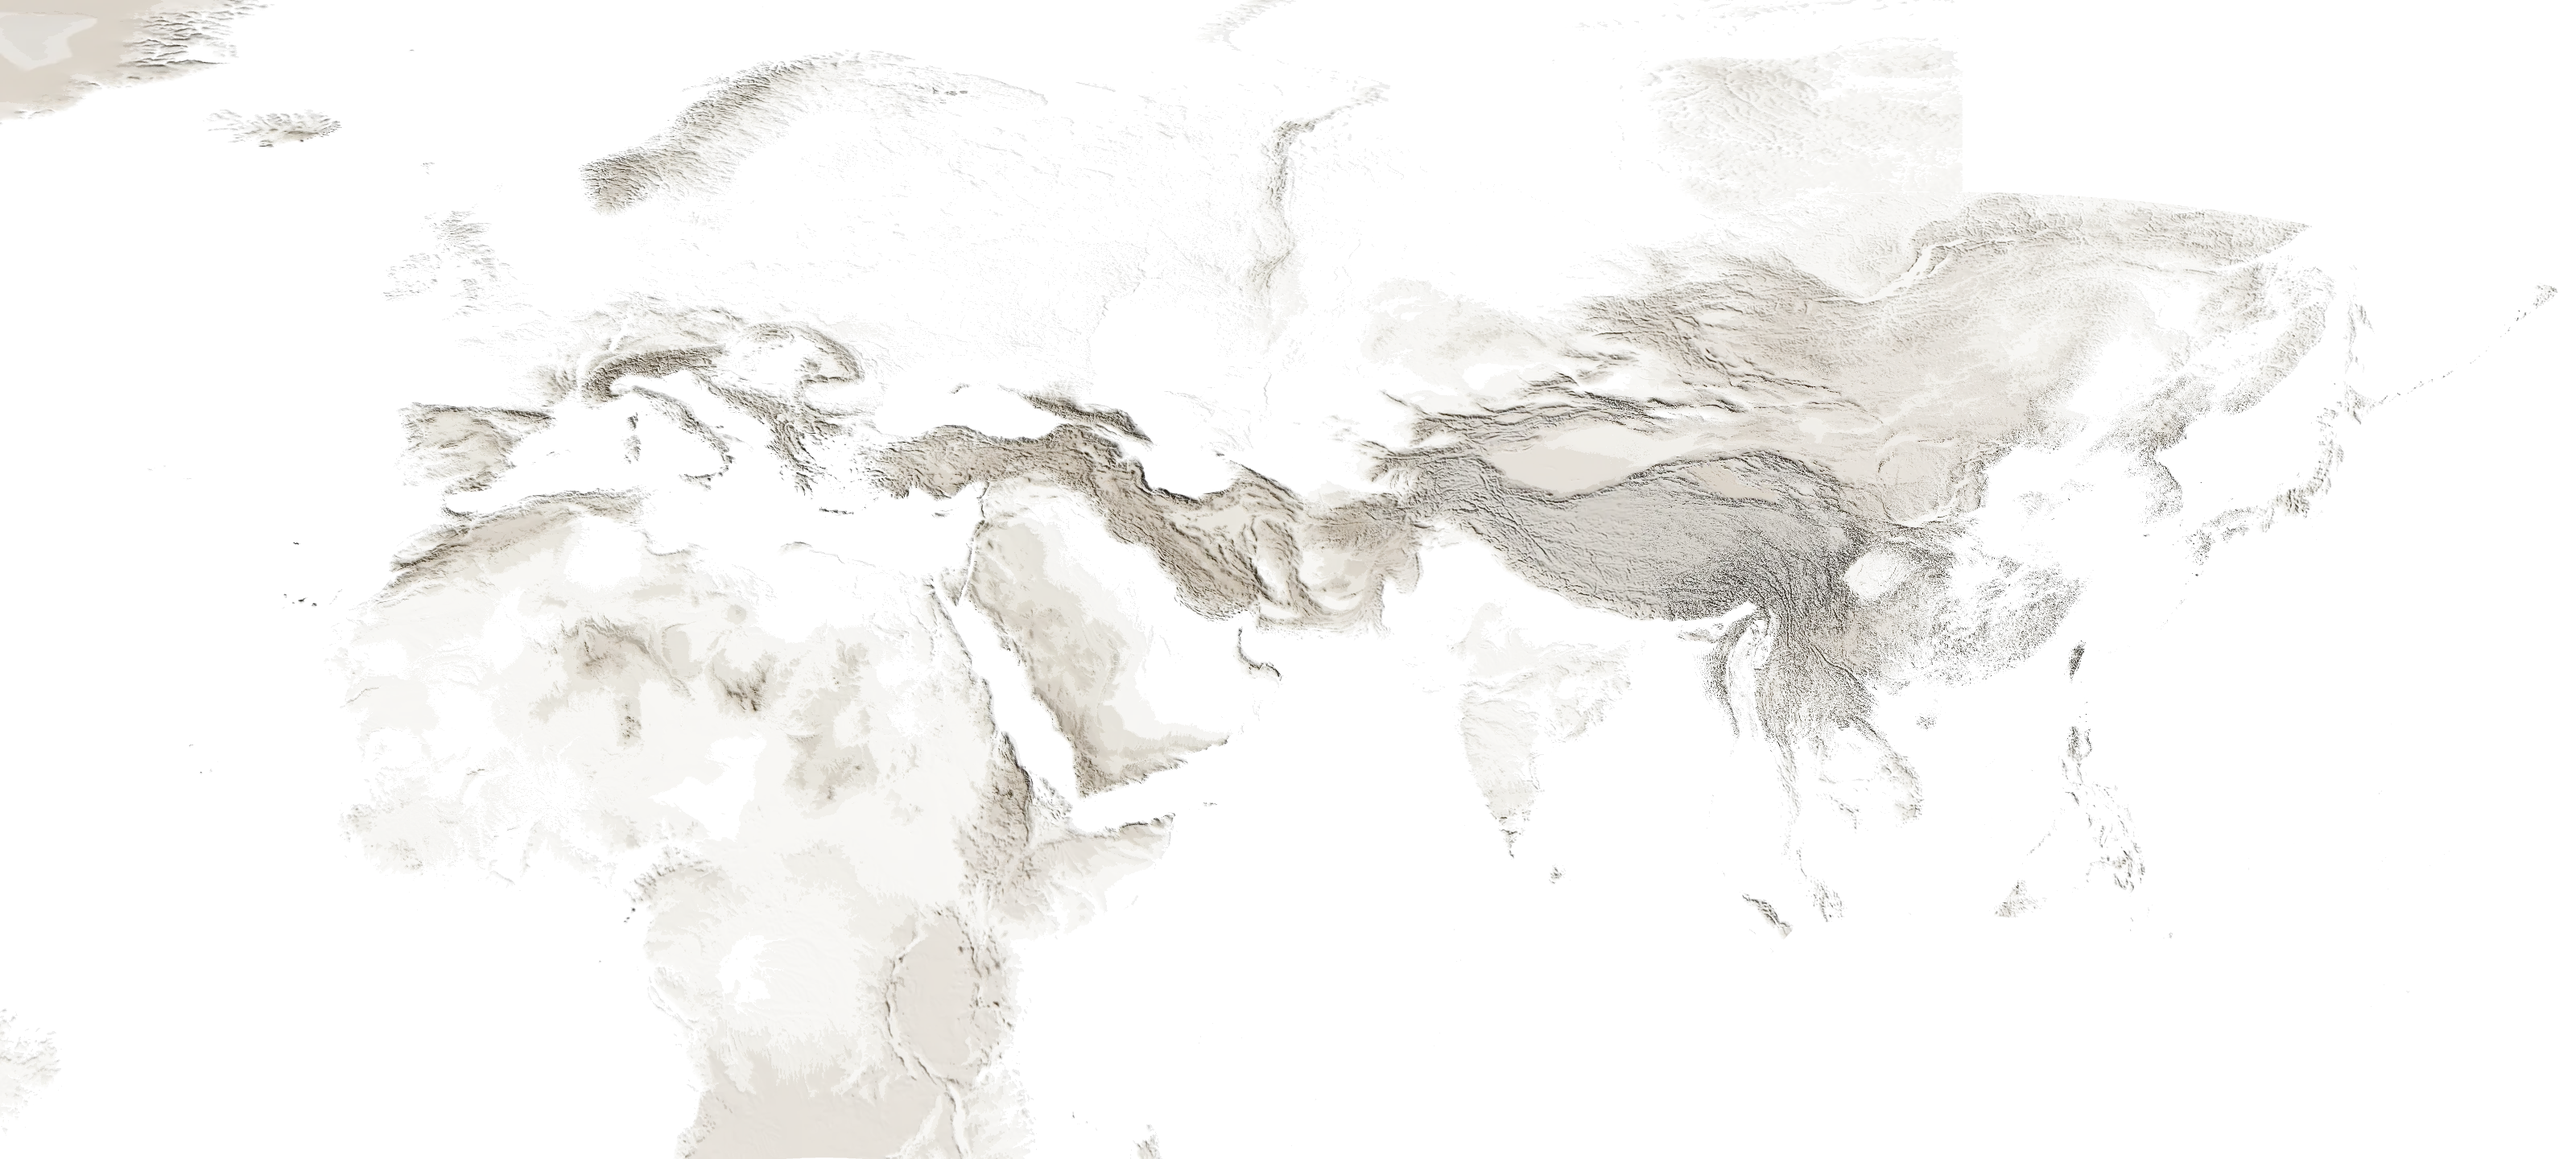
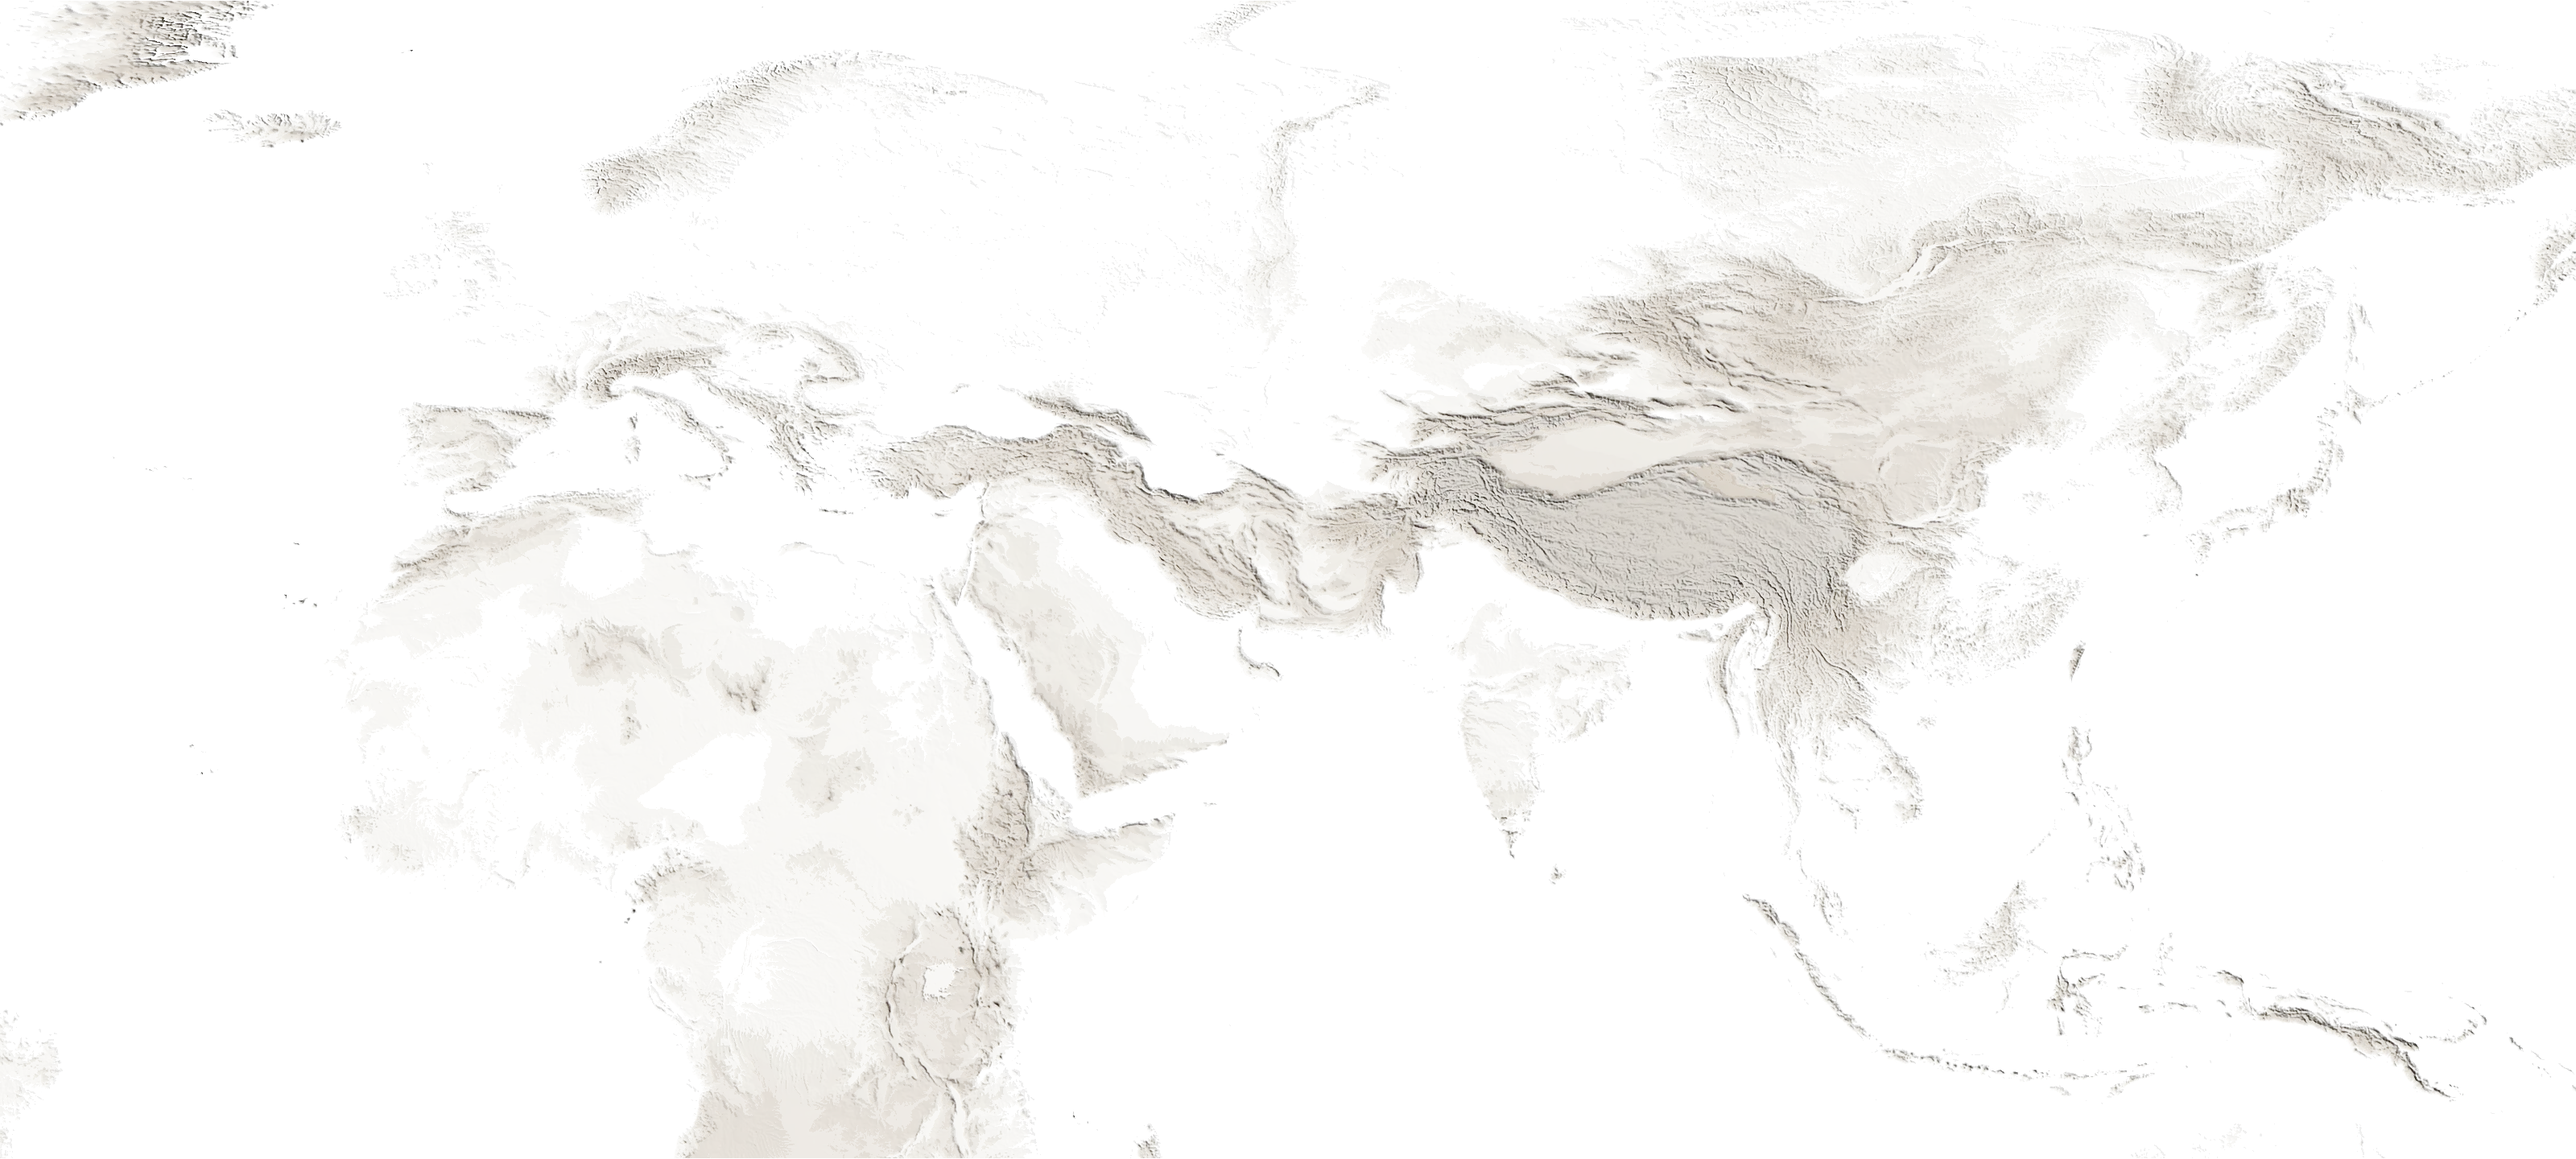
地球页：补全全球地形
- tools/globe-terrain.mjs 改为由 Terrarium 高程瓦片直接按经纬度渲染：全球一张（4096×2048）加欧亚高清区一张，画法与 tools/terrain.js 相同
- 页面着色器高清区内取高清贴图，边缘 4° 内与全球贴图渐变；美洲、非洲南部等此前空白处都有地形

Claude-Session: https://claude.ai/code/session_016rEYeEuADXCiERpc4959g2

diff --git a/engine/globe.html b/engine/globe.html
@@ -213,21 +213,27 @@ const CONF = {{CONF}};
     if (h.get('k') && +h.get('k') > 0) zoomK = Math.min(14, Math.max(0.8, +h.get('k')));
   } catch (e) {}
 
-  // —— 地形：经纬度等距贴图，在片元着色器里按正射投影反算经纬度取样
-  function terrainGL(canvas, src) {
+  // —— 地形：两张经纬度等距贴图（全球一张，欧亚高清区一张，tools/globe-terrain.mjs 生成），在片元着色器里按正射投影反算经纬度取样。
+  // 高清区内取高清贴图，离高清区边缘 4° 以内与全球贴图渐变；两张同一画法，接缝不明显
+  function terrainGL(canvas, worldSrc, hiSrc) {
     const gl = canvas.getContext('webgl', { premultipliedAlpha: false, alpha: true });
     if (!gl) return null;
     const vs = 'attribute vec2 p; void main(){ gl_Position = vec4(p, 0.0, 1.0); }';
-    const fs = `precision highp float; uniform sampler2D tex; uniform vec2 ctr; uniform float sc; uniform vec2 rot; uniform vec4 ext; uniform float hh;
+    const fs = `precision highp float; uniform sampler2D tw; uniform sampler2D th; uniform float hasW; uniform float hasH;
+      uniform vec2 ctr; uniform float sc; uniform vec2 rot; uniform vec4 ext; uniform float hh;
       void main(){ vec2 q = vec2(gl_FragCoord.x - ctr.x, (hh - gl_FragCoord.y) - ctr.y) / sc; q.y = -q.y; float r2 = dot(q, q); if (r2 > 1.0) discard;
         float cz = sqrt(1.0 - r2); float lam = atan(q.x, cz), phi = asin(clamp(q.y, -1.0, 1.0));
         float x = cos(phi) * cos(lam), y = cos(phi) * sin(lam), z = sin(phi);
         float cp = cos(rot.y), sp = sin(rot.y);
         float lon = atan(y, x * cp + z * sp) - rot.x, lat = asin(clamp(z * cp - x * sp, -1.0, 1.0));
         lon = degrees(lon); lat = degrees(lat); lon = mod(lon + 180.0, 360.0) - 180.0;
-        vec2 uv = vec2((lon - ext.x) / (ext.y - ext.x), (ext.w - lat) / (ext.w - ext.z));
-        if (uv.x < 0.0 || uv.x > 1.0 || uv.y < 0.0 || uv.y > 1.0) discard;
-        gl_FragColor = texture2D(tex, uv); }`;
+        vec4 c = hasW > 0.5 ? texture2D(tw, vec2((lon + 180.0) / 360.0, (90.0 - lat) / 180.0)) : vec4(0.0);
+        if (hasH > 0.5) {
+          float d = min(min(lon - ext.x, ext.y - lon), min(lat - ext.z, ext.w - lat));
+          if (d > 0.0) { vec4 h = texture2D(th, vec2((lon - ext.x) / (ext.y - ext.x), (ext.w - lat) / (ext.w - ext.z))); c = mix(c, h, smoothstep(0.0, 4.0, d)); }
+        }
+        if (c.a <= 0.0) discard;
+        gl_FragColor = c; }`;
     const sh = (t, s) => { const o = gl.createShader(t); gl.shaderSource(o, s); gl.compileShader(o); return o; };
     const pg = gl.createProgram(); gl.attachShader(pg, sh(gl.VERTEX_SHADER, vs)); gl.attachShader(pg, sh(gl.FRAGMENT_SHADER, fs)); gl.linkProgram(pg);
     if (!gl.getProgramParameter(pg, gl.LINK_STATUS)) return null;
@@ -236,14 +242,16 @@ const CONF = {{CONF}};
     const loc = gl.getAttribLocation(pg, 'p'); gl.enableVertexAttribArray(loc); gl.vertexAttribPointer(loc, 2, gl.FLOAT, false, 0, 0);
     const U = n => gl.getUniformLocation(pg, n), T = G.terrain;
     gl.uniform4f(U('ext'), T.lon[0], T.lon[1], T.lat[0], T.lat[1]);
+    gl.uniform1i(U('tw'), 0); gl.uniform1i(U('th'), 1); gl.uniform1f(U('hasW'), 0); gl.uniform1f(U('hasH'), 0);
     let ready = false;
-    const img = new Image(); img.onload = () => {
-      const tx = gl.createTexture(); gl.bindTexture(gl.TEXTURE_2D, tx);
-      gl.texParameteri(gl.TEXTURE_2D, gl.TEXTURE_WRAP_S, gl.CLAMP_TO_EDGE); gl.texParameteri(gl.TEXTURE_2D, gl.TEXTURE_WRAP_T, gl.CLAMP_TO_EDGE);
+    const load = (src, unit, flag, wrap) => { if (!src) return; const img = new Image(); img.onload = () => {
+      gl.activeTexture(gl.TEXTURE0 + unit); const tx = gl.createTexture(); gl.bindTexture(gl.TEXTURE_2D, tx);
+      gl.texParameteri(gl.TEXTURE_2D, gl.TEXTURE_WRAP_S, wrap ? gl.REPEAT : gl.CLAMP_TO_EDGE); gl.texParameteri(gl.TEXTURE_2D, gl.TEXTURE_WRAP_T, gl.CLAMP_TO_EDGE);
       gl.texParameteri(gl.TEXTURE_2D, gl.TEXTURE_MIN_FILTER, gl.LINEAR); gl.texParameteri(gl.TEXTURE_2D, gl.TEXTURE_MAG_FILTER, gl.LINEAR);
-      gl.texImage2D(gl.TEXTURE_2D, 0, gl.RGBA, gl.RGBA, gl.UNSIGNED_BYTE, img); ready = true; draw();
-    };
-    img.src = src;
+      gl.texImage2D(gl.TEXTURE_2D, 0, gl.RGBA, gl.RGBA, gl.UNSIGNED_BYTE, img); gl.uniform1f(U(flag), 1); ready = true; draw();
+    }; img.src = src; };
+    // 全球贴图宽高都是 2 的幂，经度方向可以环绕
+    load(worldSrc, 0, 'hasW', true); load(hiSrc, 1, 'hasH', false);
     gl.enable(gl.BLEND); gl.blendFunc(gl.SRC_ALPHA, gl.ONE_MINUS_SRC_ALPHA);
     return () => {
       gl.viewport(0, 0, canvas.width, canvas.height); gl.clearColor(0, 0, 0, 0); gl.clear(gl.COLOR_BUFFER_BIT);
@@ -253,7 +261,8 @@ const CONF = {{CONF}};
       gl.drawArrays(gl.TRIANGLE_STRIP, 0, 4);
     };
   }
-  const GL = [terrainGL(cv[1], CONF.terrain + G.terrain.base), terrainGL(cv[3], CONF.terrain + G.terrain.relief)];
+  const TW = G.terrain.world || {}, tsrc = f => f && CONF.terrain + f;
+  const GL = [terrainGL(cv[1], tsrc(TW.base), tsrc(G.terrain.base)), terrainGL(cv[3], tsrc(TW.relief), tsrc(G.terrain.relief))];
 
   function resize() {
     const r = cv[4].getBoundingClientRect(); DPR = Math.min(2, window.devicePixelRatio || 1);

diff --git a/ENGINE.md b/ENGINE.md
@@ -133,7 +133,7 @@ yutu/
 - 交互：拖动转地球、滚轮或双指缩放；地球正中的十字是焦点。时间轴单独控制，转动不改年份。地址 `#y=年份&ll=经,纬&k=缩放` 可回到同一视角，各合集目录页的“在地球上看”按钮带上本地区的 `ll`。
 - 选卷：这一年有书写的各卷（年份落在卷首、卷末事件之间）里，每套合集取地域中心离焦点最近的一卷（中心为卷末着色拼块的球面平均；年代重叠、地域相同时减去“这一年靠近卷中段”的加分），各套都画；离焦点最近的一卷为当前卷，盖在其他卷上面，右栏显示它的势力、这一年的事件与“打开这一卷的这一年”（`?y=`）。切换留 4° 余量。
 - 着色与引擎同一规则：拼块按 `tools/land.js` 的拆法与归属，快照、势力名称（`mapName`、`hideLabel`、去括号）、颜色、`blank` 都按时刻取值，填色按 `--fo` 与陆地底色混合。
-- 地形：`node tools/globe-terrain.mjs`（`tools/` 下 `npm i`）把各底图包按自身投影渲染好的地形图反投影成一张经纬度等距的贴图（`basemaps/globe/terrain-base.webp`、`terrain-relief.webp`，入库），页面用 WebGL 按正射投影取样；几套底图重叠处按离各自投影中心的远近混合。底图的地形图改过、或新地区超出 `globe.json` 的 `terrain` 范围时重跑。
+- 地形：`node tools/globe-terrain.mjs`（`tools/` 下 `npm i`）由 AWS Terrarium 高程瓦片直接按经纬度等距渲染，画法与 `tools/terrain.js` 相同（base 层山体阴影与高程着色、relief 层中性明暗）：全球一张（`basemaps/globe/world-*.webp`，4096×2048）、欧亚高清区一张（`terrain-*.webp`，范围与每度像素见 `globe.json` 的 `terrain`），入库；瓦片缓存在 `tools/.dem/`。页面用 WebGL 按正射投影取样，高清区内取高清贴图、边缘 4° 内与全球贴图渐变。新地区要更清晰的地形时放大高清区，重跑脚本。
 - 事件简介：点事件点或右栏的事件时，从各合集导出的 `data/events.json` 读取。
 - 全球陆地轮廓：`basemaps/globe/land-110m.json`（world-atlas 2.0.2，Natural Earth 1:1.1 亿）。
 
@@ -141,7 +141,7 @@ yutu/
 
 1. 照西方舆图的做法新建合集目录（如 `series/india/`）和底图包，构建到站点下的子目录（`series.json` 的 `out`）。
 2. 在 `globe.json` 的 `series` 里加一项：`name`、`dir`（合集根目录）、`site`（发布在站点下的子目录）、`color` / `dark`（时间条与标签的标识色），需要的话在 `jump` 里加快捷按钮，把 `range` 放宽。
-3. 新底图的范围超出 `terrain` 时放大它，重跑 `tools/globe-terrain.mjs`。
+3. 全球贴图已覆盖各地；新地区想要和欧亚一样清晰时，放大 `terrain` 的范围，重跑 `tools/globe-terrain.mjs`。
 4. 该合集的 `series.json` 可写 `"globe": "../globe/index.html#ll=经,纬&k=2.2"`，目录页出现“在地球上看”按钮。
 5. Pages 工作流里新合集的构建要放在 `node build-globe.mjs` 之前。
 
